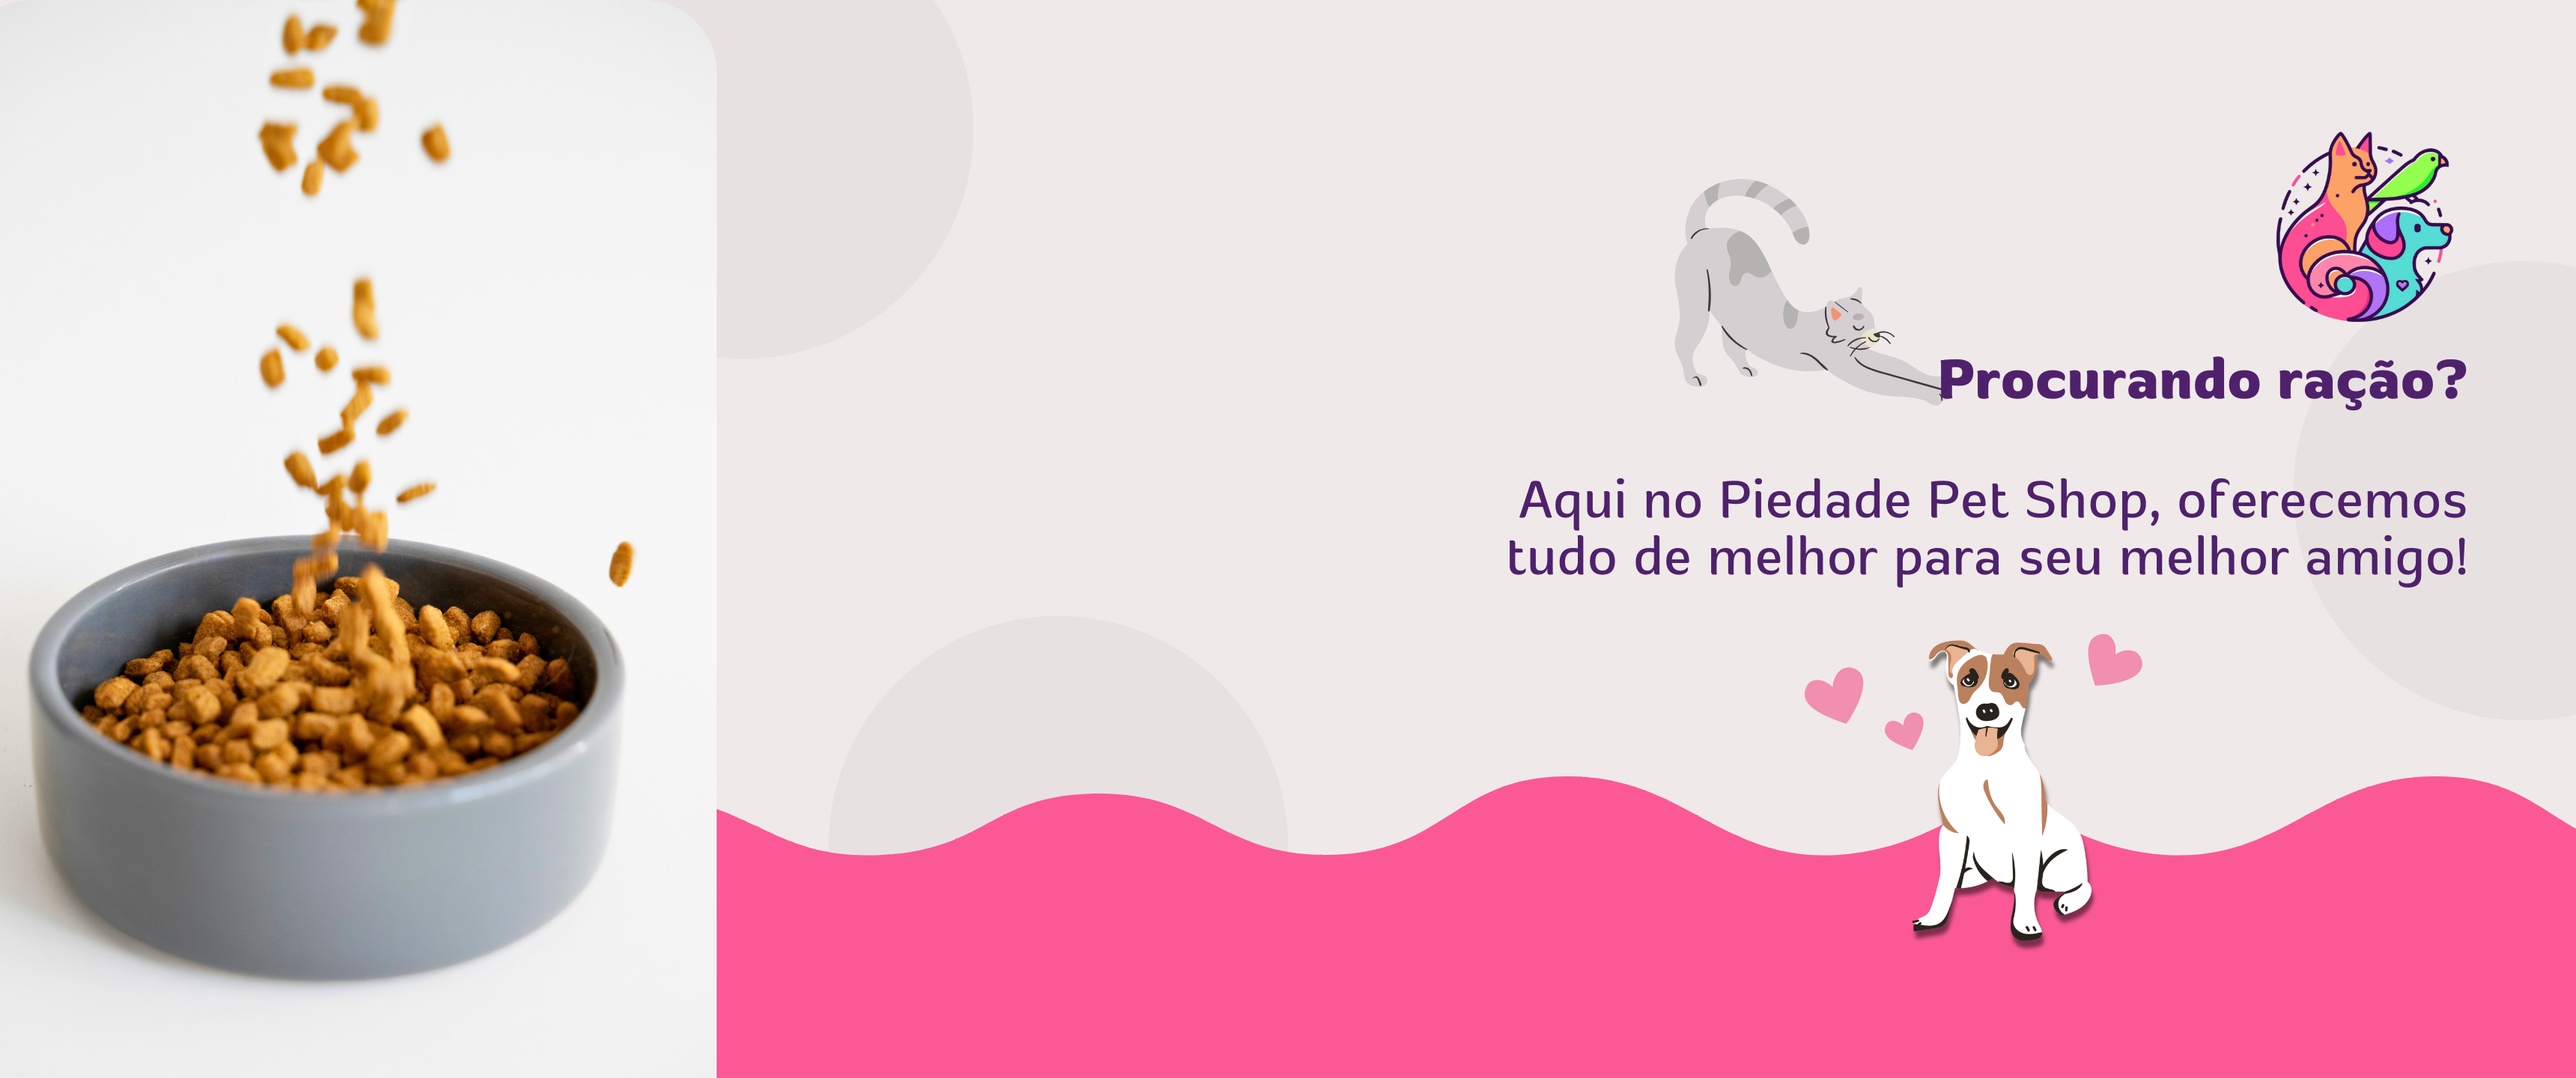
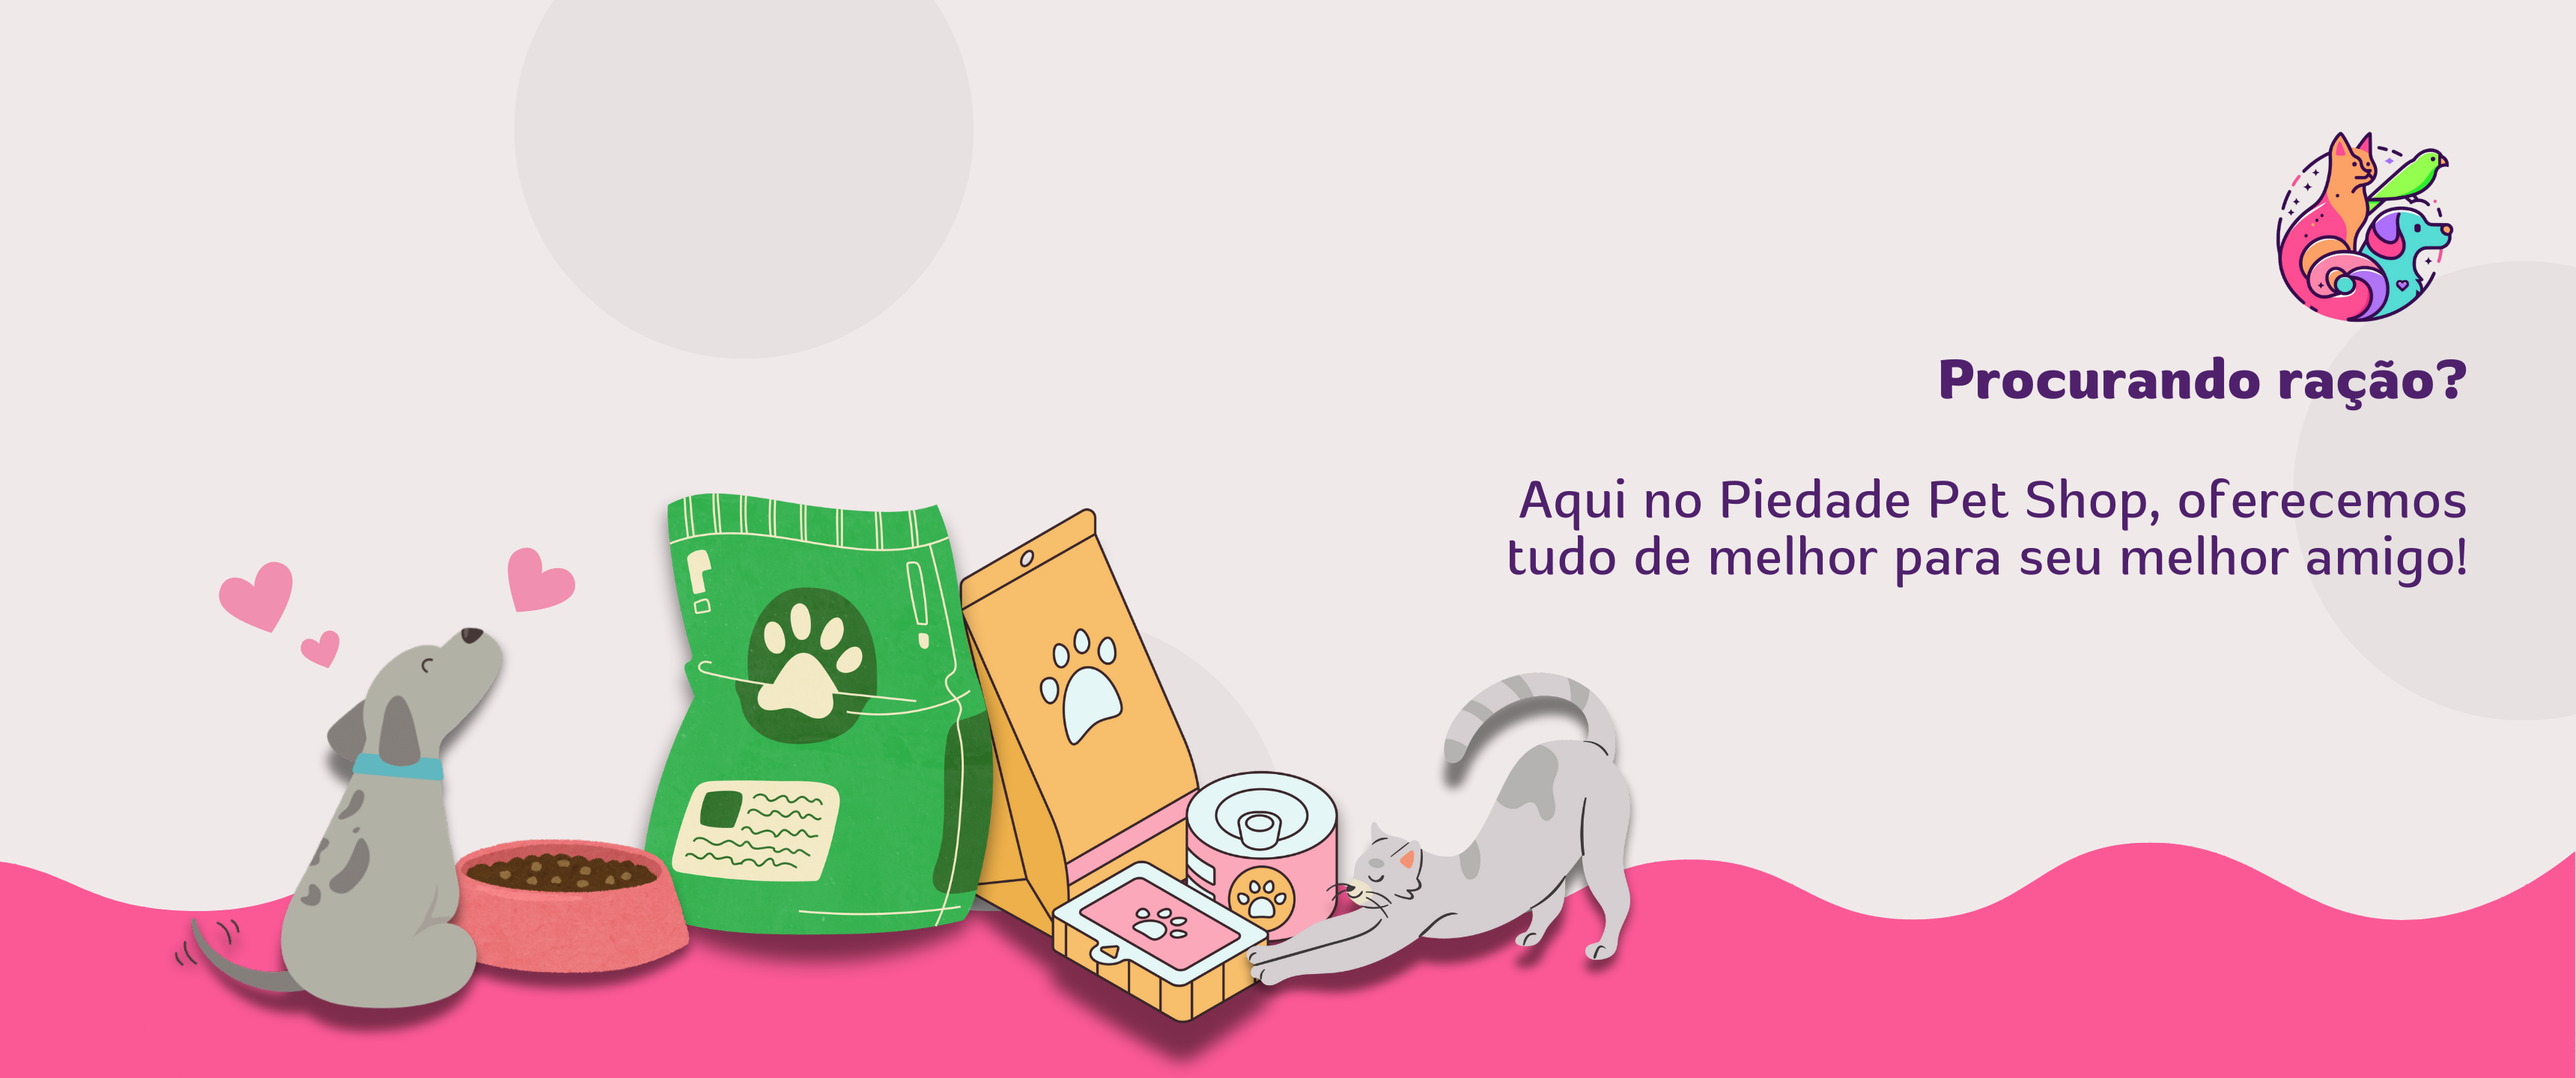
feat: add images for the products page

diff --git a/app/products/_components/hero-section/index.tsx b/app/products/_components/hero-section/index.tsx
@@ -1,0 +1,32 @@
+"use client";
+
+import { Carousel, CarouselContent, CarouselItem, CarouselNext, CarouselPrevious } from "@/app/_components/ui/carousel";
+import React from "react";
+
+const HeroSectionCarouselProducts = () => {
+    return (
+        <Carousel
+            className="relative"
+            opts={{
+                loop: true
+            }}
+        >
+            <CarouselContent className="-ml-2 md:-ml-4">
+                <CarouselItem className="pl-2 md:pl-4">
+                    <div className="relative aspect-[4/3] md:aspect-[24/9] w-full overflow-hidden">
+                        <div className="absolute inset-0 bg-products_banner bg-contain lg:bg-cover bg-no-repeat bg-center" />
+                    </div>
+                </CarouselItem>
+                <CarouselItem className="pl-2 md:pl-4">
+                    <div className="relative aspect-[4/3] md:aspect-[24/9] w-full overflow-hidden">
+                        <div className="absolute inset-0 bg-products_banner2 bg-contain lg:bg-cover bg-no-repeat bg-center" />
+                    </div>
+                </CarouselItem>
+            </CarouselContent>
+            <CarouselPrevious className="absolute left-2 md:left-8 top-1/2 -translate-y-1/2 bg-white/80 hover:bg-white w-8 h-8 md:w-12 md:h-12" />
+            <CarouselNext className="absolute right-2 md:right-8 top-1/2 -translate-y-1/2 bg-white/80 hover:bg-white w-8 h-8 md:w-12 md:h-12" />
+        </Carousel>
+    );
+};
+
+export default HeroSectionCarouselProducts;

diff --git a/app/products/page.tsx b/app/products/page.tsx
@@ -1,5 +1,6 @@
 import Cart from "../_components/cart";
 import { db } from "../_lib/prisma";
+import HeroSectionCarouselProducts from "./_components/hero-section";
 import ProductList from "./_components/products-list";
 
 import {
@@ -33,9 +34,7 @@ const Products = async () => {
 
                 {/* Hero Section */}
                 <section className="w-full">
-                    <div className="relative aspect-[4/3] md:aspect-[24/9] w-full overflow-hidden">
-                        <div className="absolute inset-0 bg-racao_banner bg-contain lg:bg-cover bg-no-repeat bg-center" />
-                    </div>
+                    <HeroSectionCarouselProducts />
                 </section>
 
                 <div className="flex flex-col sticky top-20 px-6 pt-10 mb-10 gap-8 bg-white lg:px-20 z-10">

diff --git a/tailwind.config.ts b/tailwind.config.ts
@@ -17,7 +17,8 @@ export default withUt({
 				banner2: "url('../public/banner/2.png')",
 				banner3: "url('../public/banner/3.png')",
 				banner4: "url('../public/banner/4.png')",
-				racao_banner: "url('../public/racao_banner.png')",
+				products_banner: "url('../public/products-banner/1.png')",
+				products_banner2: "url('../public/products-banner/2.png')",
 			},
 			colors: {
 				primary: 'hsl(var(--primary) / <alpha-value>)',
